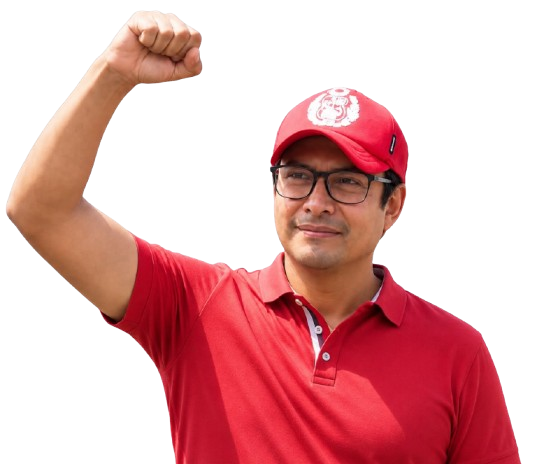
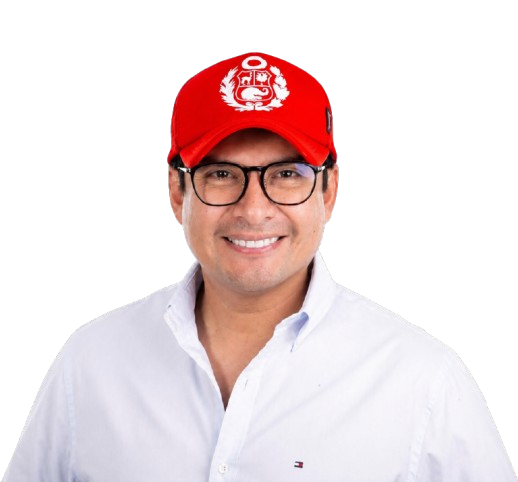
cambio de imagen y eslogan al compartir el link

diff --git a/index.html b/index.html
@@ -15,7 +15,7 @@
     <!-- Open Graph (WhatsApp, Facebook, Instagram) -->
     <meta property="og:type" content="website" />
     <meta property="og:url" content="https://jesusmaldonadooficial.com/" />
-    <meta property="og:title" content="Jesús Maldonado – Candidato Alcalde SJL 2026" />
+    <meta property="og:title" content="Jesús Maldonado – SOMOS PERÚ SJL 2026" />
     <meta property="og:description" content="Seguridad, orden y oportunidades para San Juan de Lurigancho. Conoce la propuesta de Jesús Maldonado." />
     <meta property="og:image" content="https://jesusmaldonadooficial.com/og.png" />
     <meta property="og:image:width" content="630" />
@@ -25,7 +25,7 @@
 
     <!-- Twitter / X Card -->
     <meta name="twitter:card" content="summary_large_image" />
-    <meta name="twitter:title" content="Jesús Maldonado – Candidato Alcalde SJL 2026" />
+    <meta name="twitter:title" content="Jesús Maldonado – SOMOS PERÚ SJL 2026" />
     <meta name="twitter:description" content="Seguridad, orden y oportunidades para San Juan de Lurigancho." />
     <meta name="twitter:image" content="https://jesusmaldonadooficial.com/og.png" />
 
